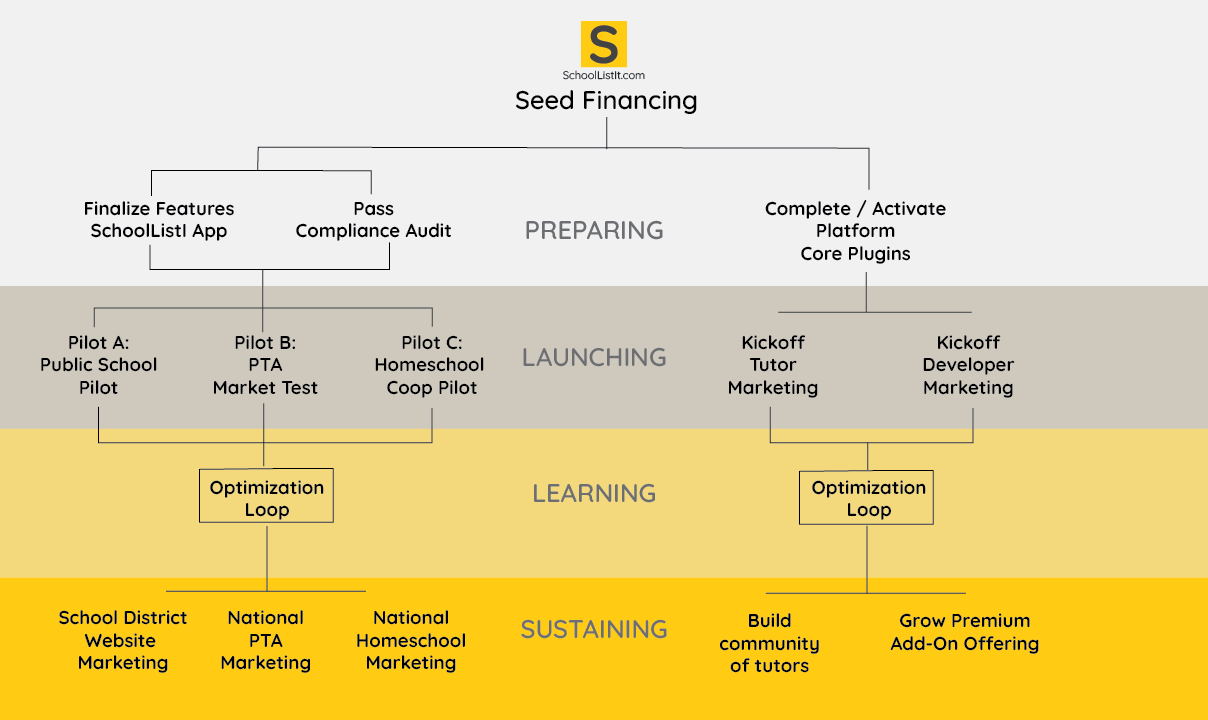
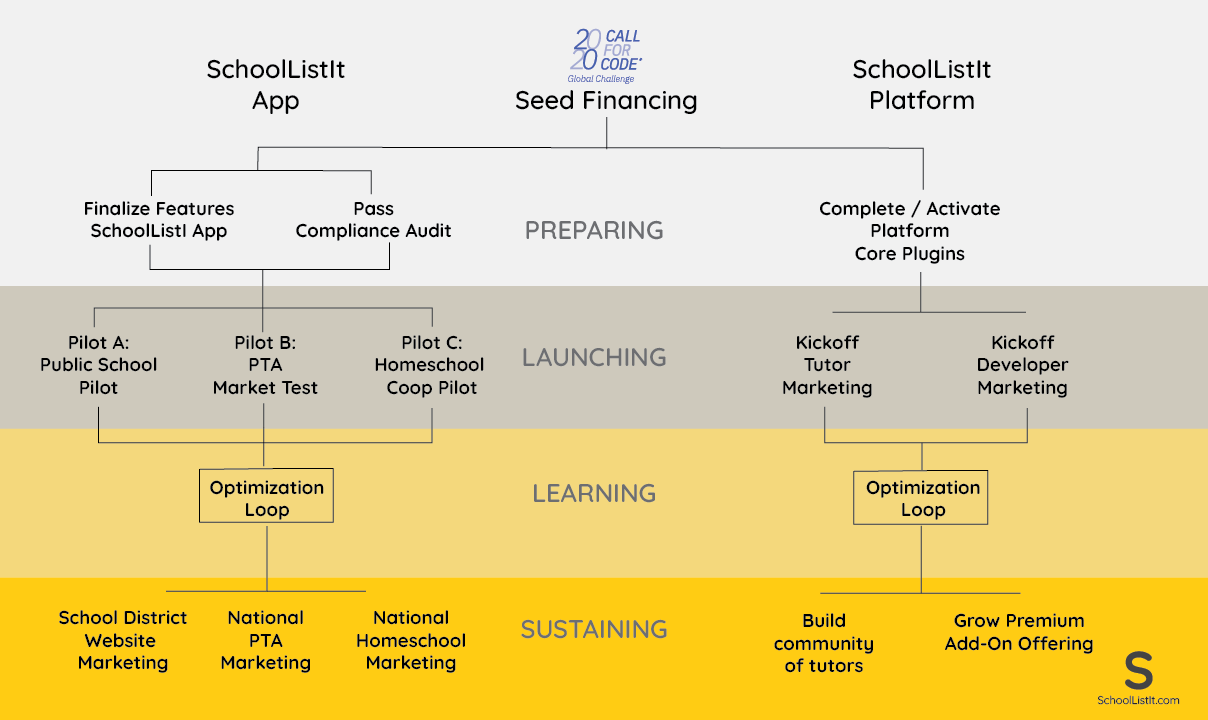
adding roadmap

diff --git a/README.md b/README.md
@@ -51,8 +51,8 @@ I approached this problem with only three constraints:
 
 Pairing React with WordPress, we've set up a toolchain for integrating existing tools and making room for new solutions. During a global pandemic, it is ideal for local developers to build local solutions for local problems. WordPress brings with it one of the largest developer communites in the world, and REACT can integrate easily with any REST API. These are the tools that can **"bring it all together"** and provide a platform for rapid response to disruption in the education space.
 
-### Architecture
-<img src="https://github.com/megphillips91/schlistit/blob/master/Architecture-02.png" alt="schoolistit architecture" width="100%"/>
+### Roadmap
+<img src="" width="100%"/>
 
 **Existing School Websites**
 Many schools already have WordPress websites. The system is designed to include these existing websites as a "distributed backend" (i.e. each school's WordPress website could serve data). In this way, we naturally impart performance, scalability, and security into the SchoolListIt App. 
